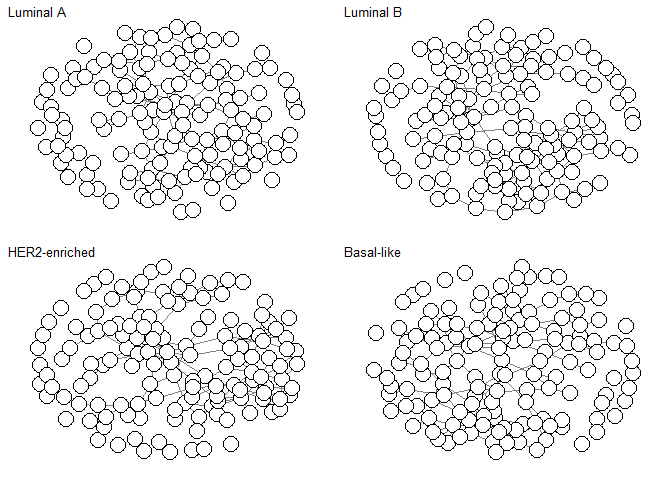
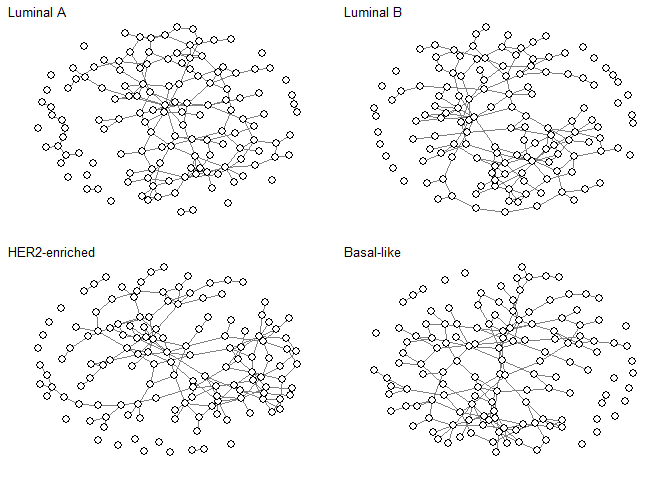
updated readme

diff --git a/README.md b/README.md
@@ -72,13 +72,13 @@ colnames(ad4) <-  colnames(dat1)
 
 par(mfrow=c(2,2))
 qgraph::qgraph(ad1,labels = F,
-              title ="Luminal A",usePCH=T,vsize= 6)
+              title ="Luminal A",usePCH=T,vsize= 3)
 qgraph::qgraph(ad2,labels = F,
-               title ="Luminal B",usePCH=T,vsize= 6)
+               title ="Luminal B",usePCH=T,vsize= 3)
 qgraph::qgraph(ad3,labels = F,
-               title ="HER2-enriched",usePCH=T,vsize= 6)
+               title ="HER2-enriched",usePCH=T,vsize= 3)
 qgraph::qgraph(ad4,labels = F,
-               title ="Basal-like",usePCH=T,vsize= 6)
+               title ="Basal-like",usePCH=T,vsize= 3)
 ```
 
 ![](README_files/figure-gfm/unnamed-chunk-2-1.png)<!-- -->